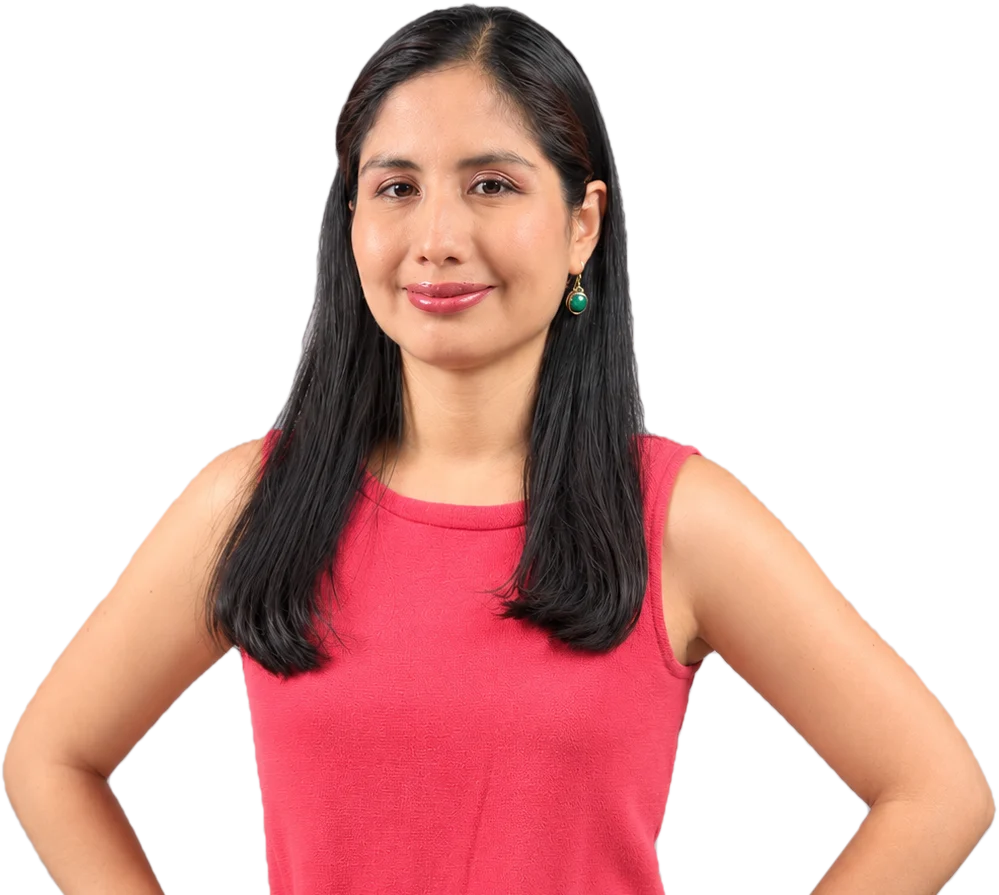
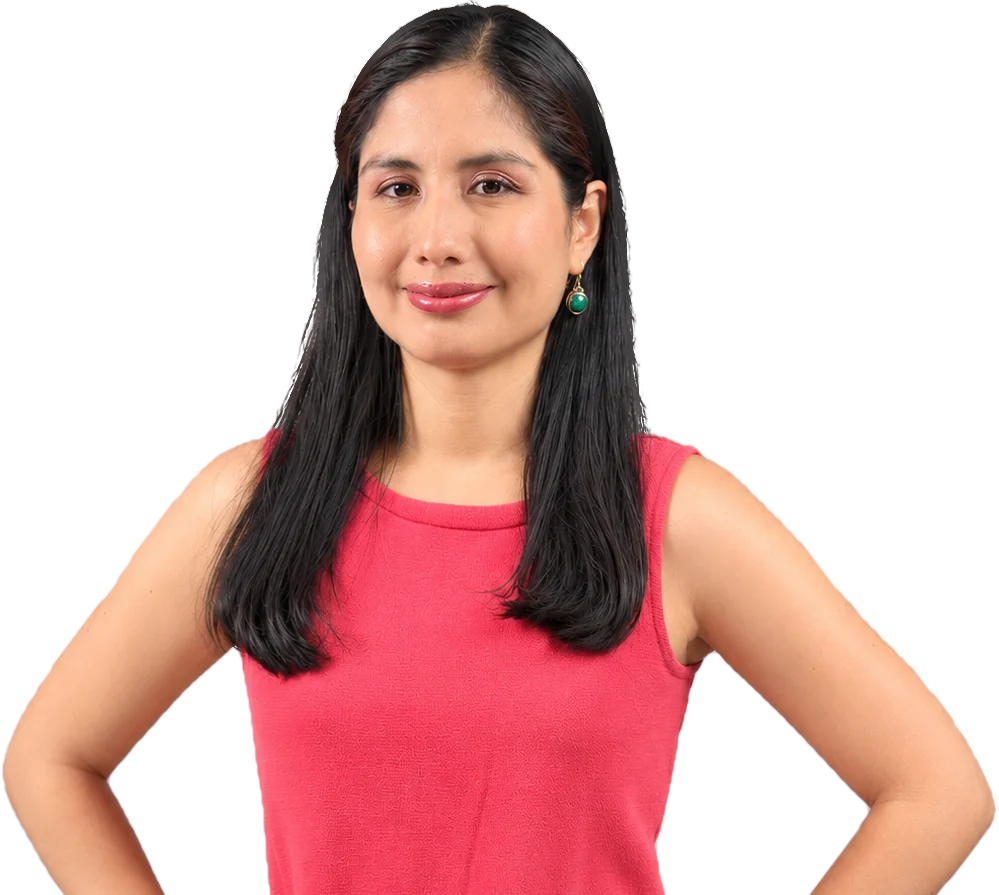
fix (DC): remove the light fringe around the hair in the hero portrait
The cut-out mask was generous along the hair, so the gray studio backdrop
showed as a light halo against the violet hero. The hair contour is
re-matted against the known backdrop colour and its colour decontaminated;
skin and dress edges, size and framing are unchanged.

diff --git a/CHANGELOG.md b/CHANGELOG.md
@@ -7,6 +7,10 @@ CLAUDE.md). La versión publicada se ve en `/version.json`.
 
 ## [Sin publicar]
 
+### Corregido
+- El retrato de Karolay en la portada ya no muestra un borde claro en el cabello: era el
+  fondo gris del estudio que se colaba en el contorno del recorte.
+
 ## [1.3.0] - 2026-11-15
 
 ### Cambiado
